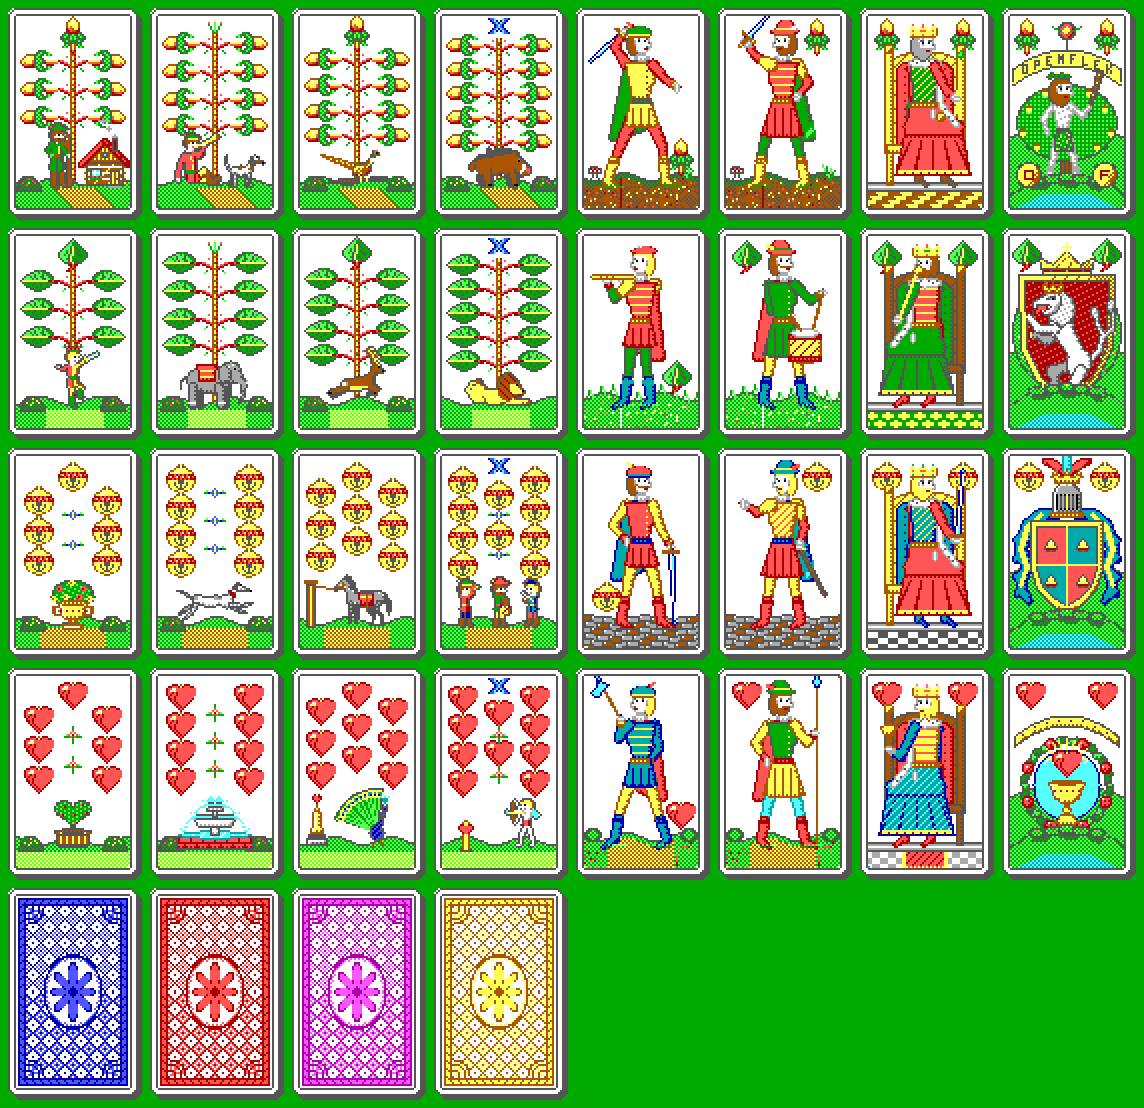
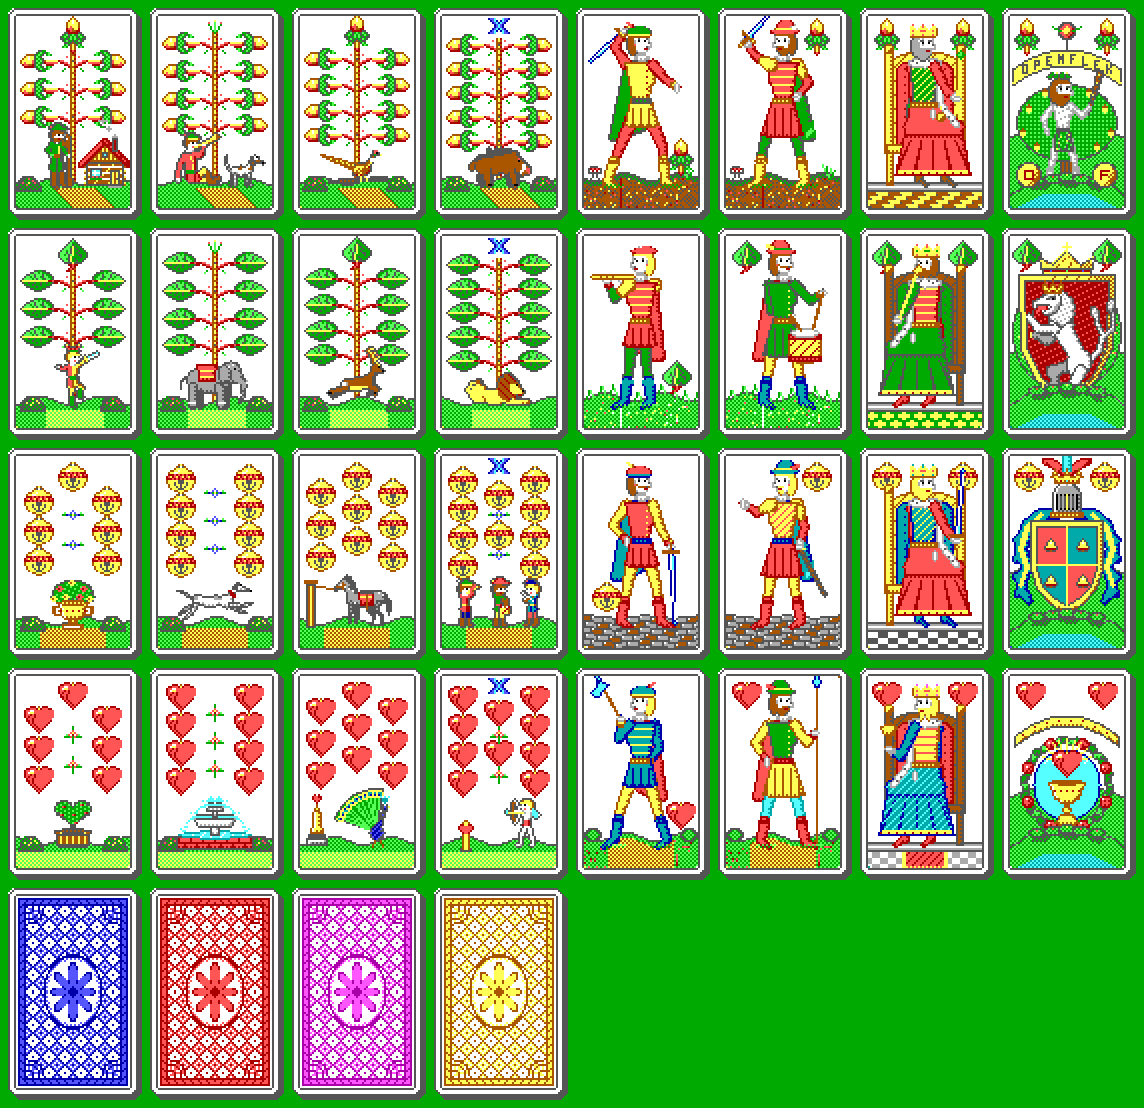
make the card back symmetric top to bottom

diff --git a/scripts/deck_gen/palette.py b/scripts/deck_gen/palette.py
@@ -361,7 +361,7 @@ def back_colour(line_col, x, y):
     if (a == 4 and b in (3, 5)) or (b == 4 and a in (3, 5)):
         return light
     # Every other cell is tinted, so the lattice reads as a chequer of diamonds.
-    if ((qx + qy) // 8 + (qx - qy) // 8) % 2 and (x + y) % 2:
+    if ((qx + qy) // 8 + (qx - qy) // 8) % 2 and (qx + qy) % 2:
         return light
     return WHITE
 
